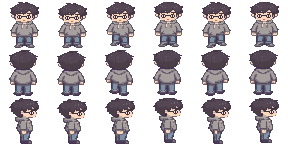
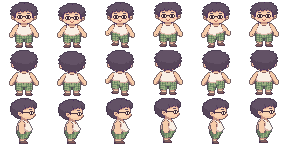
농부를 사용자 새 그림(곱슬머리 · 민소매 · 체크 반바지)으로 교체
- import_ai_character.py: 부위를 정면 그림 속 자리의 색으로 나눔 (옷 종류와 무관), 왼쪽을 보는 옆모습 자동 뒤집기
- 얼굴 패치 새로 (네모 안경 · 큰 눈 · 볼 · 웃는 입)
- make_wear_sheets.py: 맨팔이면 조끼가 윗도리 전체를 덮음, 한 가지 색 옷도 칠함, 손 찾기를 몸 가장자리 기준으로

Claude-Session: https://claude.ai/code/session_01CkpriTjpmchJpJbc9azova

diff --git a/tools/import_ai_character.py b/tools/import_ai_character.py
@@ -33,10 +33,9 @@ PARTS_DIR = os.path.join(os.path.dirname(__file__), "char_parts")
 # 부위 지도 색 (make_wear_sheets.py 와 같이 쓴다)
 PART_COLORS = {
     "hair": (40, 40, 40), "skin": (250, 200, 160), "top": (160, 160, 160), "pants": (70, 100, 200),
-    "shoes": (120, 60, 20), "detail": (255, 255, 255), "face": (220, 60, 60),
+    "shoes": (120, 60, 20),
 }
 PART_OF = {v: k for k, v in PART_COLORS.items()}
-HEAD, FEET = 0.42, 0.91  # 이 높이 위는 머리, 아래는 신발 (그림 높이 비율)
 
 
 def lum(c):
@@ -85,23 +84,51 @@ def white_to_alpha(im):
     return im
 
 
-def classify(c, yf):
-    """색과 높이(0 머리끝 ~ 1 발끝)로 부위를 고른다. 어두운 선은 None (이웃 부위를 따른다)."""
-    h, l, s = colorsys.rgb_to_hls(*(v / 255 for v in c))
-    hue = h * 360
-    if 10 <= hue <= 45 and s > 0.35 and l > 0.5:
-        return "skin"
-    if yf < HEAD:
-        return "hair" if l < 0.6 else "detail"
-    if l > 0.85 and s < 0.3:
-        return "detail"
-    if 190 <= hue <= 235 and s > 0.2 and l > 0.15 and 0.55 < yf <= FEET:
-        return "pants"
-    if l < 0.3:
-        return "shoes" if yf > FEET else None
-    if yf > FEET:
-        return "shoes"
-    return "top"
+# 부위별 색을 뽑는 정면 그림 속 자리 (가로 x0, x1, 세로 y0, y1 비율). 어떤 옷이든 색으로 나눈다.
+PROBES = {
+    "hair": [(0.3, 0.7, 0.02, 0.12)],
+    "skin": [(0.4, 0.6, 0.36, 0.41)],
+    "top": [(0.35, 0.65, 0.52, 0.6), (0.4, 0.6, 0.64, 0.68)],
+    "pants": [(0.2, 0.4, 0.72, 0.8), (0.6, 0.8, 0.72, 0.8)],
+    "shoes": [(0.1, 0.9, 0.95, 1.0)],
+}
+# 부위가 나올 수 있는 높이 (0 머리끝 ~ 1 발끝)
+SPAN = {"hair": (0, 0.5), "skin": (0, 1), "top": (0.3, 0.85), "pants": (0.55, 1), "shoes": (0.85, 1)}
+
+
+def part_refs(front):
+    """정면 그림에서 부위마다 대표 색 (가장 많은 색 3개). 한 색은 가장 많이 나온 부위 하나에만."""
+    w, h = front.size
+    px = front.load()
+    count = {}
+    for part, boxes in PROBES.items():
+        c = Counter()
+        for x0, x1, y0, y1 in boxes:
+            for y in range(int(y0 * h), max(int(y0 * h) + 1, int(y1 * h))):
+                for x in range(int(x0 * w), max(int(x0 * w) + 1, int(x1 * w))):
+                    p = px[x, min(y, h - 1)]
+                    if p[3] and (part in ("hair", "shoes") or lum(p) >= 60):
+                        c[p[:3]] += 1
+        count[part] = c
+    refs = {}
+    for part, c in count.items():
+        refs[part] = [col for col, n in c.most_common(3) if all(n >= count[o][col] for o in count if o != part)]
+    return refs
+
+
+def classify(c, yf, refs):
+    """가장 가까운 부위 대표 색으로 고른다. 어두운 선은 None (이웃 부위를 따른다)."""
+    best, bd = None, 1e9
+    for part, cols in refs.items():
+        if not SPAN[part][0] <= yf <= SPAN[part][1]:
+            continue
+        for r in cols:
+            d = sum((a - b) ** 2 for a, b in zip(c, r))
+            if d < bd:
+                best, bd = part, d
+    if lum(c) < 60 and best not in ("hair", "shoes"):
+        return None
+    return best
 
 
 def soften(c, lift, sat):
@@ -145,7 +172,7 @@ def fill_holes(img):
                 px[x, y] = px[x - 1, y]
 
 
-def part_map(img):
+def part_map(img, refs):
     """부위 지도. 어두운 선은 가장 많은 이웃 부위를 따른다."""
     w, h = img.size
     src = img.load()
@@ -153,7 +180,7 @@ def part_map(img):
     for y in range(h):
         for x in range(w):
             if src[x, y][3]:
-                lab[x, y] = classify(src[x, y][:3], y / (h - 1))
+                lab[x, y] = classify(src[x, y][:3], y / (h - 1), refs)
     for _ in range(4):
         for (x, y), v in list(lab.items()):
             if v is None:
@@ -161,10 +188,11 @@ def part_map(img):
                 ns.pop(None, None)
                 if ns:
                     lab[x, y] = ns.most_common(1)[0][0]
-    # 바지 윗줄 아래로 내려온 윗도리 · 살색 (다리 사이 틈 등) 은 바지로
-    pants_top = min((y for (x, y), v in lab.items() if v == "pants"), default=h)
+    # 바지 윗줄 아래로 내려온 윗도리 색 (다리 사이 선 등) 은 바지로
+    rows = [Counter(v for (x, yy), v in lab.items() if yy == y) for y in range(h)]
+    pants_top = next((y for y in range(h) if rows[y]["pants"] > max(2, rows[y]["top"])), h)
     for (x, y), v in lab.items():
-        if (v == "top" and y > pants_top + 1) or (v == "skin" and y > pants_top + 3):
+        if v == "top" and y > pants_top + 1:
             lab[x, y] = "pants"
     parts = Image.new("RGBA", (w, h), (0, 0, 0, 0))
     dst = parts.load()
@@ -286,7 +314,17 @@ def main():
     for key, f in zip(("down", "up", "side"), figs):
         views[key] = pixelize(f, pal_img, pal, max(1, round(f.width * sx)), a.height)
         fill_holes(views[key])
-    parts = {k: part_map(v) for k, v in views.items()}
+    refs = part_refs(views["down"])
+    # 옆모습은 오른쪽을 봐야 한다. 얼굴(살색)이 머리카락보다 왼쪽이면 뒤집는다.
+    pm = part_map(views["side"], refs).load()
+    sw = views["side"].width
+    cx = lambda part: sum(x for x in range(sw) for y in range(a.height // 2) if pm[x, y][:3] == PART_COLORS[part]) / max(1, sum(
+        1 for x in range(sw) for y in range(a.height // 2) if pm[x, y][:3] == PART_COLORS[part]))
+    if cx("skin") < cx("hair"):
+        views["side"] = views["side"].transpose(Image.Transpose.FLIP_LEFT_RIGHT)
+        print("옆모습이 왼쪽을 봐서 뒤집음")
+    print("부위 색", refs)
+    parts = {k: part_map(v, refs) for k, v in views.items()}
     for k, v in views.items():
         for x, y in recolor_body(v, parts[k], a.lift, a.sat):
             p = parts[k].getpixel((x, y))

diff --git a/tools/make_wear_sheets.py b/tools/make_wear_sheets.py
@@ -375,15 +375,29 @@ def paint_ramp(img, row, col, body, pts, edge, ramp):
     line = (int(m[0] * 0.35 + 15.6), int(m[1] * 0.35 + 14.4), int(m[2] * 0.35 + 28.8))
     p = img.load()
     for (x, y), v in lm.items():
-        t = (v - lo) / max(1, hi - lo)
+        t = (v - lo) / (hi - lo) if hi - lo > 30 else 0.7  # 한 가지 색 옷이면 중간 색으로
         c = line if (x, y) in edge or t < 0.22 else (d if t < 0.5 else (m if t < 0.85 else l))
         p[col * CELL + x, row * CELL + y] = (*c, 255)
 
 
-def hands(pp, top):
-    """윗도리 아래쪽 살색 = 손. 왼손 · 오른손 (옆모습은 하나) 의 x 범위 (가슴의 끈 같은 살색은 뺀다)"""
+def hands(pp, top, row):
+    """윗도리 아래쪽 살색 = 손 (맨팔이면 팔). 왼손 · 오른손 (옆모습은 하나) 의 x 범위.
+    정면 · 뒷모습은 몸 가장자리에서 이어진 살색만 센다 (가슴 끈 · 맨살 허리 같은 가운데 살색은 뺀다)."""
     _, _, _, ty1 = bbox(top)
-    xs = sorted({x for x, y in pp["skin"] if ty1 - 5 <= y <= ty1 + 2})
+    skin = {p for p in pp["skin"] if ty1 - 5 <= p[1] <= ty1 + 2}
+    if row == 2:
+        xs = sorted({x for x, _ in skin})
+    else:
+        body = set().union(*pp.values())
+        xs = set()
+        for y in {y for _, y in skin}:
+            line = sorted(x for x, yy in body if yy == y)
+            for seq in (line, line[::-1]):
+                for x in seq:
+                    if (x, y) not in skin:
+                        break
+                    xs.add(x)
+        xs = sorted(xs)
     groups = []
     for x in xs:
         if groups and x - groups[-1][1] <= 1:
@@ -411,15 +425,23 @@ def fit_top(ramp, vest=False, pocket=None, stripe=None):
         top = pp["top"]
         tx0, ty0, tx1, ty1 = bbox(top)
         pts = set(top)
-        hs = hands(pp, top)
+        hs = hands(pp, top, row)
         mid = (tx0 + tx1) / 2
-        if vest:
+        # 소매가 있을 때만 팔을 남긴다. 윗도리 줄 가운데쯤에서 몸 가장자리가 살색이면 맨팔
+        body_px = set().union(*pp.values())
+        bare = 0
+        for y in range(ty0 + 2, ty1 - 3):
+            line = sorted(x for x, yy in body_px if yy == y)
+            if line and (line[0], y) in pp["skin"] and (line[-1], y) in pp["skin"]:
+                bare += 1
+        sleeves = row != 2 and bare < 2
+        if vest and sleeves:
             for a, b in hs:
                 # 소매: 손 위 세로줄 + 몸 쪽으로 2줄
                 a, b = (a, b + 2) if b < mid else (a - 2, b)
                 pts = {(x, y) for x, y in pts if not (a <= x <= b and y > ty0 + 1)}
-            if row == 0:
-                    pts = {(x, y) for x, y in pts if abs(x + 0.5 - mid) > 1.6 or y < ty0 + 2}
+        if vest and row == 0:  # 앞섶을 열어 안의 옷이 보이게
+            pts = {(x, y) for x, y in pts if abs(x + 0.5 - mid) > 1.6 or y < ty0 + 2}
         paint_ramp(img, row, col, body, pts, edge, ramp)
         c = Canvas(img, col * CELL, row * CELL)
         if pocket and row != 1:

diff --git a/docs/sprites.md b/docs/sprites.md
@@ -3,7 +3,7 @@
 규격은 2026-09-27 결정 (design/decisions.md "캐릭터 걷기 애니메이션 규격"): **4방향 · 걷기 4프레임 · 대기 2프레임**.
 
 ## 파일
-- `assets/characters/player.png` 플레이어(농부). 회색 후드티, 청바지, 둥근 안경. AI 그림 시험본에서 가져온 도트 (아래 "AI 그림에서 가져오기")
+- `assets/characters/player.png` 플레이어(농부). 곱슬머리, 네모 안경, 흰 민소매, 초록 체크 반바지, 갈색 신 (2026-09-30 사용자 AI 그림에서 가져옴)
 - `assets/characters/hunter.png` 사냥꾼. 외형 미정이라 후드 색만 초록으로 바꾼 임시본
 
 사냥꾼 · 대장장이 · 연금술사 · 목축인은 `tools/make_character_sheet.py`가 코드로 그린 **임시 그림**이다.
@@ -17,7 +17,8 @@ python3 tools/import_ai_character.py tools/char_parts/player_src.png --name play
 python3 tools/make_wear_sheets.py   # 이 캐릭터의 장비 덧그림을 새 몸에 맞춰 다시 만든다
 ```
 
-- 가로(`--width`, 기본 30px)와 세로(`--height`, 46px)를 따로 줄여 몸이 가늘어지지 않게 한다.
+- 가로(`--width`, 기본 30px)와 세로(`--height`, 46px)를 따로 줄여 몸이 가늘어지지 않게 한다. 옆모습이 왼쪽을 보면 알아서 뒤집는다.
+- 부위(머리카락 · 살 · 윗도리 · 바지 · 신발)는 정면 그림 속 정해진 자리의 색으로 나눈다 (`PROBES`). 옷 모양은 자유, 부위끼리 색만 달라야 한다.
 - 까만 머리 · 선은 짙은 보랏빛 회색으로 올리고, 바깥 테두리는 이웃 색을 어둡게 한 선으로 바꾼 뒤 P1 보정.
 - 48px 에서 뭉개지는 얼굴(안경 · 눈 · 볼 · 입)은 `<이름>_patch.json` 에 글자 그림으로 손질한다 ('.' 는 그대로).
 - 걷기는 다리를 올리거나(앞 · 뒤) 앞뒤로 벌려(옆) 만들고, 걸음 사이 몸이 1px 들썩인다. 대기 2번은 윗몸이 1px 내려간다.
